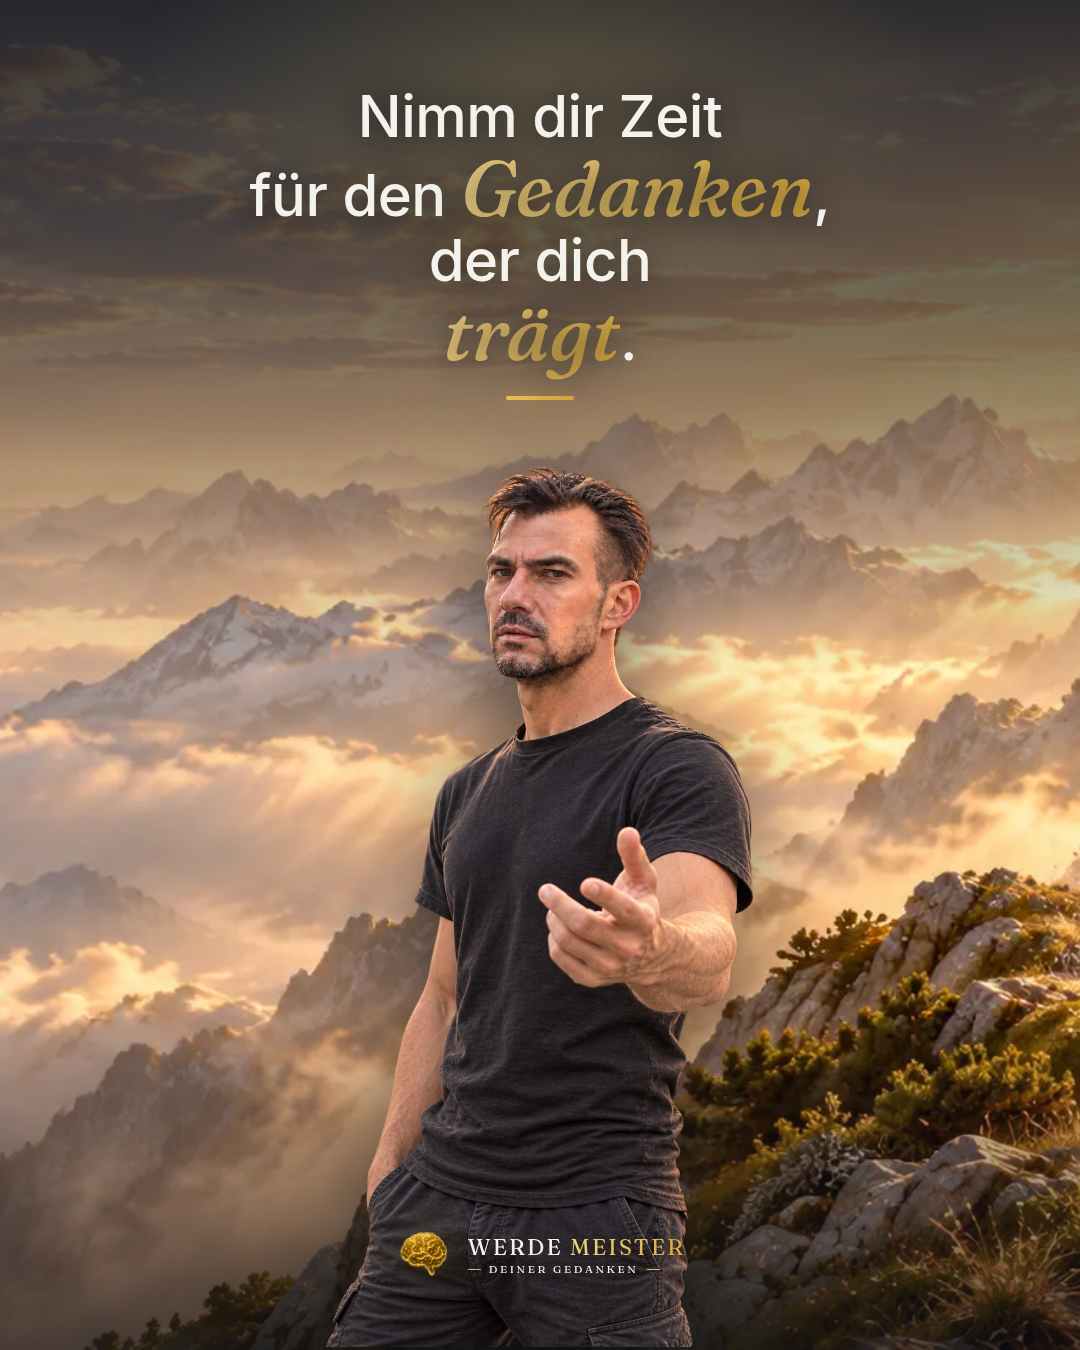
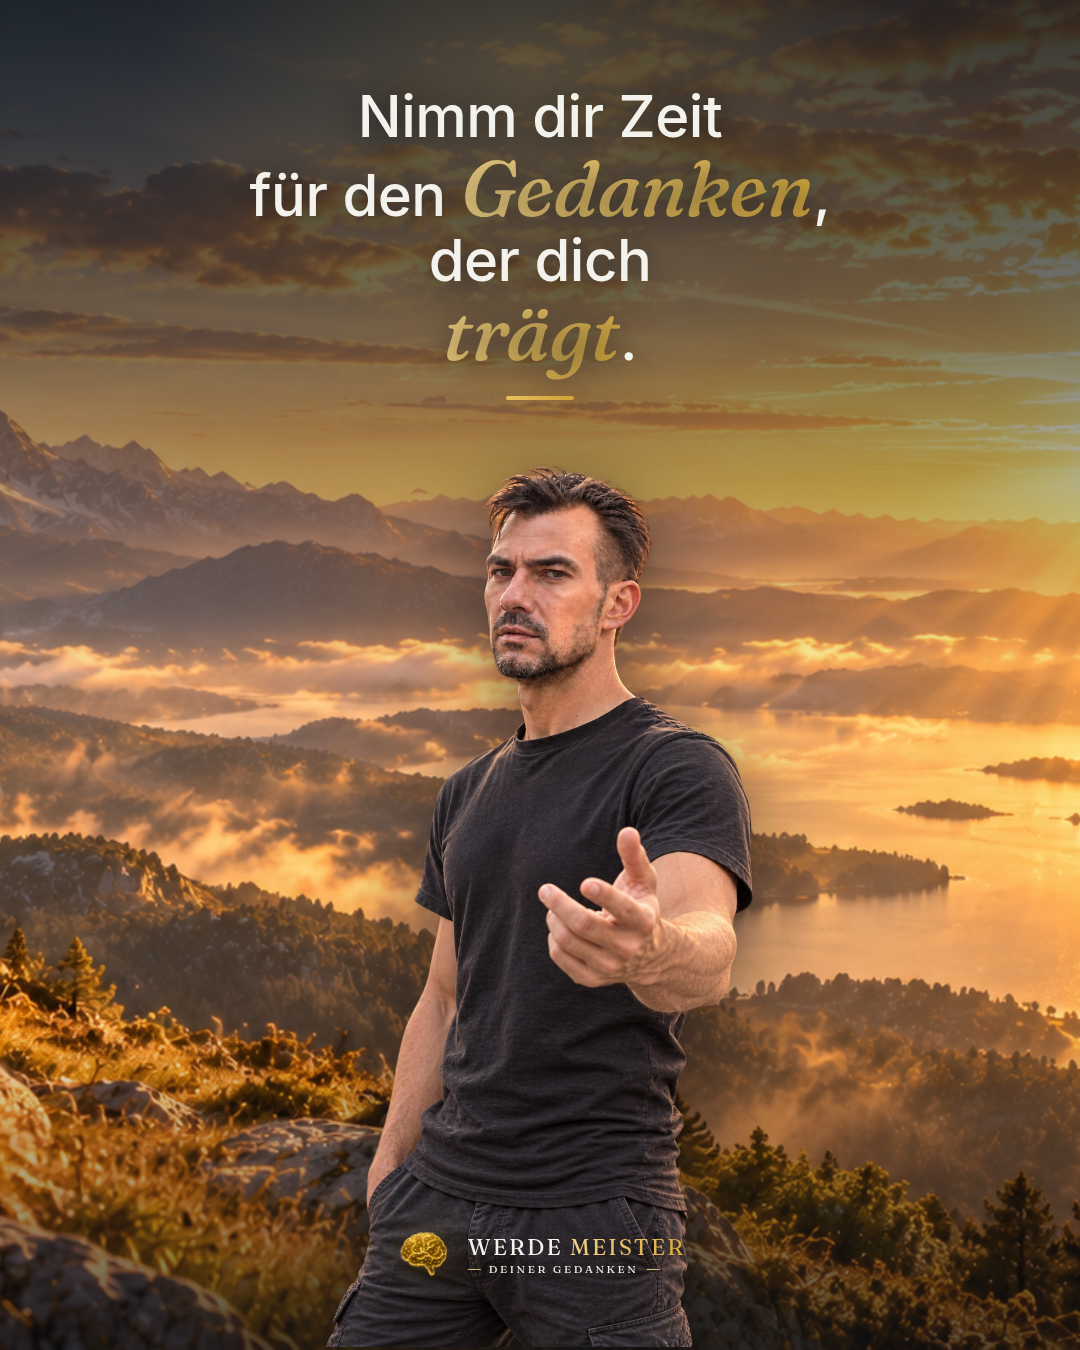
Social: wechselnde Sonnenaufgang-Hintergründe für alle Serien
Jeder Post nutzt jetzt rotierend eines von 7 Berg-/Sonnenaufgang-Panoramen statt
immer desselben Motivs – mehr Abwechslung im Feed, gleicher warmer Look (passt zum
Randlicht der Freisteller).

- 6 neue Panoramen -> tools/social/weisheiten/quellen/hintergruende/berg-01..06.png
- assets.js: neues `backdrops`-Array (Original + 6), `berge` bleibt für Kompatibilität
- alle 6 Generatoren: Backdrop pro Post aus backdrops[i % 7]
- alle 64 PNGs neu gerendert
- README-Hinweis ergänzt

Weiterhin unter tools/ (nicht public/), Vercel-Deploy bleibt schlank.

Claude-Session: https://claude.ai/code/session_01M1YcZR29Nm1qxHVibmA1qg

diff --git a/tools/social/weisheiten/gen-klartext.js b/tools/social/weisheiten/gen-klartext.js
@@ -49,7 +49,7 @@ function place(pose, targetH, footY, frameW) {
   };
 }
 
-function page(fmtKey, item) {
+function page(fmtKey, item, bg) {
   const f = FMT[fmtKey];
   const p = place(item.pose, f.targetH, f.footY, f.w);
   const isStory = fmtKey === "9x16";
@@ -96,7 +96,7 @@ h1 em{font-family:'Fraunces',serif;font-style:italic;font-weight:500;font-size:1
 .brand .l2 .ln{height:1px;width:13px;background:rgba(242,212,137,.85);}
 .brand .l2 .t{font-family:'Fraunces',serif;font-weight:400;text-transform:uppercase;letter-spacing:.24em;font-size:${isStory ? 11.5 : 11}px;line-height:1;}
 </style></head><body><div class="stage">
-  <div class="backdrop"><img src="${a.berge}" alt=""></div>
+  <div class="backdrop"><img src="${bg}" alt=""></div>
   <div class="veil-t"></div><div class="veil-b"></div><div class="glow"></div><div class="ground"></div>
   <div class="figure"><img src="${a.posen[item.pose]}" alt="Heiko Schwaninger"></div>
   <div class="content"><h1>${item.q}</h1><div class="rule"></div>${ctaHTML}</div>
@@ -107,9 +107,10 @@ h1 em{font-family:'Fraunces',serif;font-style:italic;font-weight:500;font-size:1
 </div></body></html>`;
 }
 
-for (const item of ITEMS) {
+ITEMS.forEach((item, i) => {
   const nn = String(item.n).padStart(2, "0");
-  fs.writeFileSync(path.join(BUILD, `${item.series}-${nn}-${item.key}-4x5.html`), page("4x5", item));
-  fs.writeFileSync(path.join(BUILD, `${item.series}-${nn}-${item.key}-9x16.html`), page("9x16", item));
-}
+  const bg = a.backdrops[i % a.backdrops.length];
+  fs.writeFileSync(path.join(BUILD, `${item.series}-${nn}-${item.key}-4x5.html`), page("4x5", item, bg));
+  fs.writeFileSync(path.join(BUILD, `${item.series}-${nn}-${item.key}-9x16.html`), page("9x16", item, bg));
+});
 console.log(`Serie E „Klartext" + E-Book: ${ITEMS.length}x2 Seiten -> tools/social/weisheiten/build/`);

diff --git a/tools/social/weisheiten/gen-einladung.js b/tools/social/weisheiten/gen-einladung.js
@@ -45,7 +45,7 @@ function place(pose, targetH, footY, frameW) {
   };
 }
 
-function page(fmtKey, item) {
+function page(fmtKey, item, bg) {
   const f = FMT[fmtKey];
   const p = place(item.pose, f.targetH, f.footY, f.w);
   const isStory = fmtKey === "9x16";
@@ -87,7 +87,7 @@ h1 em{font-family:'Fraunces',serif;font-style:italic;font-weight:500;font-size:1
 .brand .l2 .ln{height:1px;width:13px;background:rgba(242,212,137,.85);}
 .brand .l2 .t{font-family:'Fraunces',serif;font-weight:400;text-transform:uppercase;letter-spacing:.24em;font-size:${isStory ? 11.5 : 11}px;line-height:1;}
 </style></head><body><div class="stage">
-  <div class="backdrop"><img src="${a.berge}" alt=""></div>
+  <div class="backdrop"><img src="${bg}" alt=""></div>
   <div class="veil-t"></div><div class="veil-b"></div><div class="glow"></div><div class="ground"></div>
   <div class="figure"><img src="${a.posen[item.pose]}" alt="Heiko Schwaninger"></div>
   <div class="content"><h1>${item.q}</h1><div class="rule"></div></div>
@@ -98,9 +98,10 @@ h1 em{font-family:'Fraunces',serif;font-style:italic;font-weight:500;font-size:1
 </div></body></html>`;
 }
 
-for (const item of ITEMS) {
+ITEMS.forEach((item, i) => {
   const nn = String(item.n).padStart(2, "0");
-  fs.writeFileSync(path.join(BUILD, `einladung-${nn}-${item.key}-4x5.html`), page("4x5", item));
-  fs.writeFileSync(path.join(BUILD, `einladung-${nn}-${item.key}-9x16.html`), page("9x16", item));
-}
+  const bg = a.backdrops[i % a.backdrops.length];
+  fs.writeFileSync(path.join(BUILD, `einladung-${nn}-${item.key}-4x5.html`), page("4x5", item, bg));
+  fs.writeFileSync(path.join(BUILD, `einladung-${nn}-${item.key}-9x16.html`), page("9x16", item, bg));
+});
 console.log(`Serie F „Einladung & Reflexion": ${ITEMS.length}x2 Seiten -> tools/social/weisheiten/build/`);

diff --git a/tools/social/weisheiten/gen-mini-muster.js b/tools/social/weisheiten/gen-mini-muster.js
@@ -49,7 +49,7 @@ function place(pose, targetH, footY, frameW) {
   };
 }
 
-function page(fmtKey, item) {
+function page(fmtKey, item, bg) {
   const f = FMT[fmtKey];
   const p = place(item.pose, f.targetH, f.footY, f.w);
   const isStory = fmtKey === "9x16";
@@ -91,7 +91,7 @@ h1 em{font-family:'Fraunces',serif;font-style:italic;font-weight:500;font-size:1
 .brand .l2 .ln{height:1px;width:13px;background:rgba(242,212,137,.85);}
 .brand .l2 .t{font-family:'Fraunces',serif;font-weight:400;text-transform:uppercase;letter-spacing:.24em;font-size:${isStory ? 11.5 : 11}px;line-height:1;}
 </style></head><body><div class="stage">
-  <div class="backdrop"><img src="${a.berge}" alt=""></div>
+  <div class="backdrop"><img src="${bg}" alt=""></div>
   <div class="veil-t"></div><div class="veil-b"></div><div class="glow"></div><div class="ground"></div>
   <div class="figure"><img src="${a.posen[item.pose]}" alt="Heiko Schwaninger"></div>
   <div class="content"><h1>${item.q}</h1><div class="rule"></div></div>
@@ -104,7 +104,8 @@ h1 em{font-family:'Fraunces',serif;font-style:italic;font-weight:500;font-size:1
 
 ITEMS.forEach((item, i) => {
   const n = String(i + 1).padStart(2, "0");
-  fs.writeFileSync(path.join(BUILD, `muster-${n}-${item.key}-4x5.html`), page("4x5", item));
-  fs.writeFileSync(path.join(BUILD, `muster-${n}-${item.key}-9x16.html`), page("9x16", item));
+  const bg = a.backdrops[i % a.backdrops.length];
+  fs.writeFileSync(path.join(BUILD, `muster-${n}-${item.key}-4x5.html`), page("4x5", item, bg));
+  fs.writeFileSync(path.join(BUILD, `muster-${n}-${item.key}-9x16.html`), page("9x16", item, bg));
 });
 console.log(`Mini-Serie „Muster & Vermeidung": ${ITEMS.length}x2 Seiten -> tools/social/weisheiten/build/`);

diff --git a/tools/social/weisheiten/gen-story-portrait.js b/tools/social/weisheiten/gen-story-portrait.js
@@ -22,7 +22,7 @@ const VARIANTS = [
 ];
 const ZOOM = { normal: { pw: 780, ph: 1060 }, wide: { pw: 660, ph: 900 }, close: { pw: 940, ph: 1280 } };
 
-function page(quoteHTML, o) {
+function page(quoteHTML, o, bg) {
   const left = o.side === "left";
   const z = ZOOM[o.zoom] || ZOOM.normal;
   const textRight = left;
@@ -71,7 +71,7 @@ h1 em{font-family:'Fraunces',serif;font-style:italic;font-weight:500;font-size:1
 .brand .l2 .ln{height:1px;width:14px;background:rgba(242,212,137,.85);}
 .brand .l2 .t{font-family:'Fraunces',serif;font-weight:400;text-transform:uppercase;letter-spacing:.24em;font-size:11.5px;line-height:1;}
 </style></head><body><div class="stage">
-  <div class="backdrop"><img src="${a.berge}" alt=""></div>
+  <div class="backdrop"><img src="${bg}" alt=""></div>
   <div class="veil-x"></div><div class="veil-t"></div><div class="veil-b"></div><div class="glow"></div>
   <div class="portrait"><div class="aura"></div><img src="${a.portrait}" alt="Heiko Schwaninger"></div>
   <div class="content"><h1>${quoteHTML}</h1><div class="rule"></div></div>
@@ -84,6 +84,6 @@ h1 em{font-family:'Fraunces',serif;font-style:italic;font-weight:500;font-size:1
 
 QUOTES.forEach((q, i) => {
   const n = String(i + 1).padStart(2, "0");
-  fs.writeFileSync(path.join(BUILD, `weisheit-story-portrait-${n}.html`), page(q.html, VARIANTS[i]));
+  fs.writeFileSync(path.join(BUILD, `weisheit-story-portrait-${n}.html`), page(q.html, VARIANTS[i], a.backdrops[i % a.backdrops.length]));
 });
 console.log(`Serie A Story (Porträt 9:16): ${QUOTES.length} Seiten -> tools/social/weisheiten/build/`);

diff --git a/tools/social/weisheiten/gen-portrait.js b/tools/social/weisheiten/gen-portrait.js
@@ -23,7 +23,7 @@ const VARIANTS = [
 
 const ZOOM = { normal: { pw: 660, ph: 900 }, wide: { pw: 560, ph: 780 }, close: { pw: 800, ph: 1090 } };
 
-function page(quoteHTML, o) {
+function page(quoteHTML, o, bg) {
   const left = o.side === "left";
   const z = ZOOM[o.zoom] || ZOOM.normal;
   const textRight = left;
@@ -75,7 +75,7 @@ h1 em{font-family:'Fraunces',serif;font-style:italic;font-weight:500;font-size:1
 .brand .l2 .ln{height:1px;width:14px;background:rgba(242,212,137,.85);}
 .brand .l2 .t{font-family:'Fraunces',serif;font-weight:400;text-transform:uppercase;letter-spacing:.24em;font-size:12px;line-height:1;}
 </style></head><body><div class="stage">
-  <div class="backdrop"><img src="${a.berge}" alt=""></div>
+  <div class="backdrop"><img src="${bg}" alt=""></div>
   <div class="veil-x"></div><div class="veil-b"></div><div class="glow"></div><div class="toplight"></div>
   <div class="portrait"><div class="aura"></div><img src="${a.portrait}" alt="Heiko Schwaninger"></div>
   <div class="content"><h1>${quoteHTML}</h1><div class="rule"></div></div>
@@ -89,6 +89,6 @@ h1 em{font-family:'Fraunces',serif;font-style:italic;font-weight:500;font-size:1
 
 QUOTES.forEach((q, i) => {
   const n = String(i + 1).padStart(2, "0");
-  fs.writeFileSync(path.join(BUILD, `weisheit-portrait-${n}.html`), page(q.html, VARIANTS[i]));
+  fs.writeFileSync(path.join(BUILD, `weisheit-portrait-${n}.html`), page(q.html, VARIANTS[i], a.backdrops[i % a.backdrops.length]));
 });
 console.log(`Serie A (Porträt): ${QUOTES.length} Seiten -> tools/social/weisheiten/build/`);

diff --git a/tools/social/weisheiten/gen-story-posen.js b/tools/social/weisheiten/gen-story-posen.js
@@ -45,7 +45,7 @@ function place(pose, targetH, centerX, footY) {
   };
 }
 
-function page(o) {
+function page(o, bg) {
   const p = place(o.pose, o.targetH, o.centerX, o.footY);
   const textRight = o.textSide === "right";
   const veilAngle = textRight ? "240deg" : "120deg";
@@ -92,7 +92,7 @@ h1 em{font-family:'Fraunces',serif;font-style:italic;font-weight:500;font-size:1
 .brand .l2 .ln{height:1px;width:14px;background:rgba(242,212,137,.85);}
 .brand .l2 .t{font-family:'Fraunces',serif;font-weight:400;text-transform:uppercase;letter-spacing:.24em;font-size:11.5px;line-height:1;}
 </style></head><body><div class="stage">
-  <div class="backdrop"><img src="${a.berge}" alt=""></div>
+  <div class="backdrop"><img src="${bg}" alt=""></div>
   <div class="veil-x"></div><div class="veil-t"></div><div class="veil-b"></div><div class="glow"></div>
   <div class="figure"><img src="${a.posen[o.pose]}" alt="Heiko Schwaninger"></div>
   <div class="content"><h1>${o.q}</h1><div class="rule"></div></div>
@@ -105,6 +105,6 @@ h1 em{font-family:'Fraunces',serif;font-style:italic;font-weight:500;font-size:1
 
 POSTS.forEach((o, i) => {
   const n = String(i + 1).padStart(2, "0");
-  fs.writeFileSync(path.join(BUILD, `weisheit-story-posen-${n}.html`), page(o));
+  fs.writeFileSync(path.join(BUILD, `weisheit-story-posen-${n}.html`), page(o, a.backdrops[i % a.backdrops.length]));
 });
 console.log(`Serie C (Story 9:16): ${POSTS.length} Seiten -> tools/social/weisheiten/build/`);

diff --git a/tools/social/weisheiten/gen-posen.js b/tools/social/weisheiten/gen-posen.js
@@ -43,7 +43,7 @@ function place(pose, targetH, centerX, footY) {
   };
 }
 
-function page(o) {
+function page(o, bg) {
   const p = place(o.pose, o.targetH, o.centerX, o.footY);
   const textRight = o.textSide === "right";
   const veilAngle = textRight ? "240deg" : "120deg";
@@ -91,7 +91,7 @@ h1 em{font-family:'Fraunces',serif;font-style:italic;font-weight:500;font-size:1
 .brand .l2 .ln{height:1px;width:13px;background:rgba(242,212,137,.85);}
 .brand .l2 .t{font-family:'Fraunces',serif;font-weight:400;text-transform:uppercase;letter-spacing:.24em;font-size:11px;line-height:1;}
 </style></head><body><div class="stage">
-  <div class="backdrop"><img src="${a.berge}" alt=""></div>
+  <div class="backdrop"><img src="${bg}" alt=""></div>
   <div class="veil-x"></div><div class="veil-b"></div><div class="glow"></div><div class="toplight"></div>
   <div class="ground"></div>
   <div class="figure"><img src="${a.posen[o.pose]}" alt="Heiko Schwaninger"></div>
@@ -106,6 +106,6 @@ h1 em{font-family:'Fraunces',serif;font-style:italic;font-weight:500;font-size:1
 
 POSTS.forEach((o, i) => {
   const n = String(i + 1).padStart(2, "0");
-  fs.writeFileSync(path.join(BUILD, `weisheit-pose-${n}.html`), page(o));
+  fs.writeFileSync(path.join(BUILD, `weisheit-pose-${n}.html`), page(o, a.backdrops[i % a.backdrops.length]));
 });
 console.log(`Serie B (Posen): ${POSTS.length} Seiten -> tools/social/weisheiten/build/`);

diff --git a/tools/social/weisheiten/assets.js b/tools/social/weisheiten/assets.js
@@ -19,6 +19,13 @@ module.exports = {
   frauncesI: dataUri(path.join(fontsDir, "Fraunces-latin-italic-variable.woff2"), "font/woff2"),
   // Motive
   berge: dataUri(path.join(pub, "hero-bg-berge.webp"), "image/webp"),
+  // Wechselnde Berg-/Sonnenaufgang-Hintergründe (für Abwechslung im Feed).
+  // Index 0 = Original-Bergmotiv, 1–6 = zusätzliche Panoramen (unter quellen/hintergruende).
+  backdrops: [
+    dataUri(path.join(pub, "hero-bg-berge.webp"), "image/webp"),
+    ...["berg-01", "berg-02", "berg-03", "berg-04", "berg-05", "berg-06"].map((n) =>
+      dataUri(path.join(__dirname, "quellen/hintergruende", n + ".png"), "image/png")),
+  ],
   logo: dataUri(path.join(pub, "logo-brain-gold-freigestellt.png"), "image/png"),
   portrait: dataUri(path.join(pub, "heiko-hero.webp"), "image/webp"),
   // Freigestellte Ganzkörper-Posen (transparent). Liegen als Build-Inputs unter

diff --git a/tools/social/weisheiten/README.md b/tools/social/weisheiten/README.md
@@ -31,6 +31,10 @@ Look: Navy-Grund, Gold-Akzente, Schriften **Inter** (Fließtext) + **Fraunces** 
 Kursiv-Schlüsselwörter), Logo unten (freigestelltes Gehirn + Wortmarke). Das **Gesicht
 ist immer das echte Foto** – keine KI-Veränderung, nur Rahmung/Spiegelung/Ausschnitt.
 
+**Wechselnde Hintergründe:** Jeder Post nutzt rotierend eines von 7 Sonnenaufgang-
+Panoramen (`assets.js` → `backdrops`: das Original `hero-bg-berge.webp` plus 6 unter
+`quellen/hintergruende/`). Neue Panoramen dort ablegen und in `assets.js` registrieren.
+
 ## Erzeugen
 
 ```bash
